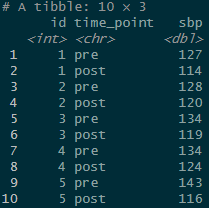
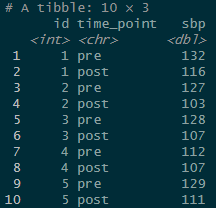
set seed

diff --git a/r_tidy_basics.md b/r_tidy_basics.md
@@ -132,17 +132,23 @@ creates a mock data set of 5 participants with systolic blood pressure
 measurements (sbp) before (pre) and after (post) a treatment.
 
 ``` r
+#setting "seed" to make sure everyone's simulated data are the same
+set.seed(111) 
+
 #create wide data set 
-df <- data.frame(id = seq(1,5), #5 participants
+df <- tibble(id = seq(1,5), #5 participants
                  sbp_pre = round(rnorm(5, 130, 8), 0), #SBP before
                  sbp_post = round(rnorm(5, 115, 8),0)) #SBP after
 
 df #this will show the table in your console
 ```
 
-This should create the following (wide) data frame:
+This should create the following (wide) data set:
 
 ![](wide_data.png)
+
+Note how the observation “time point” (pre vs. post) is encoded in the
+column header, rather than being listed as one row per observation.
 
 Here is how you would reshape it to long (“tidy”) format using the
 tidyverse function pivot_longer().
